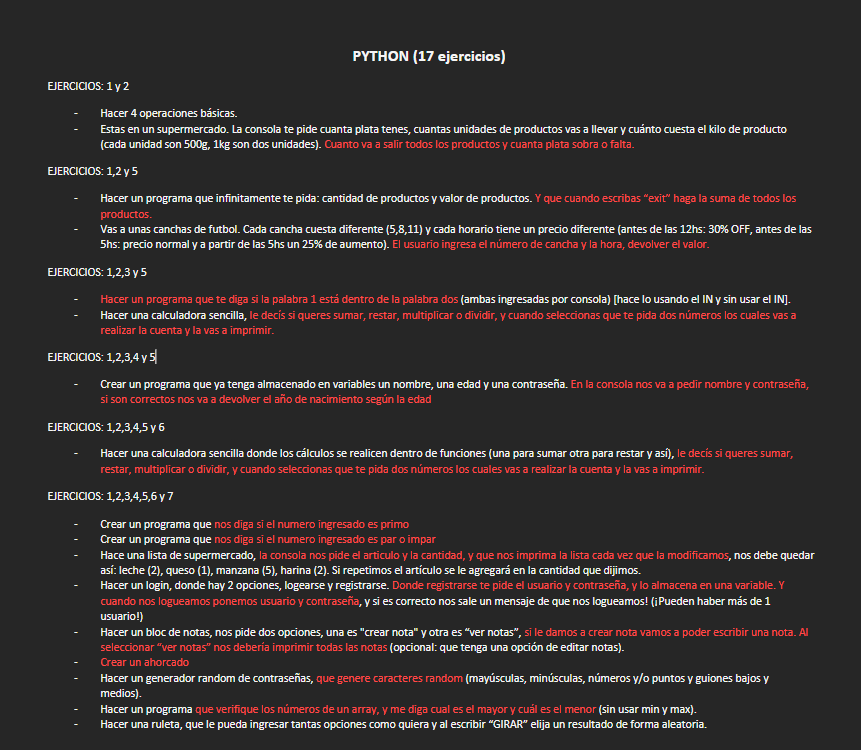
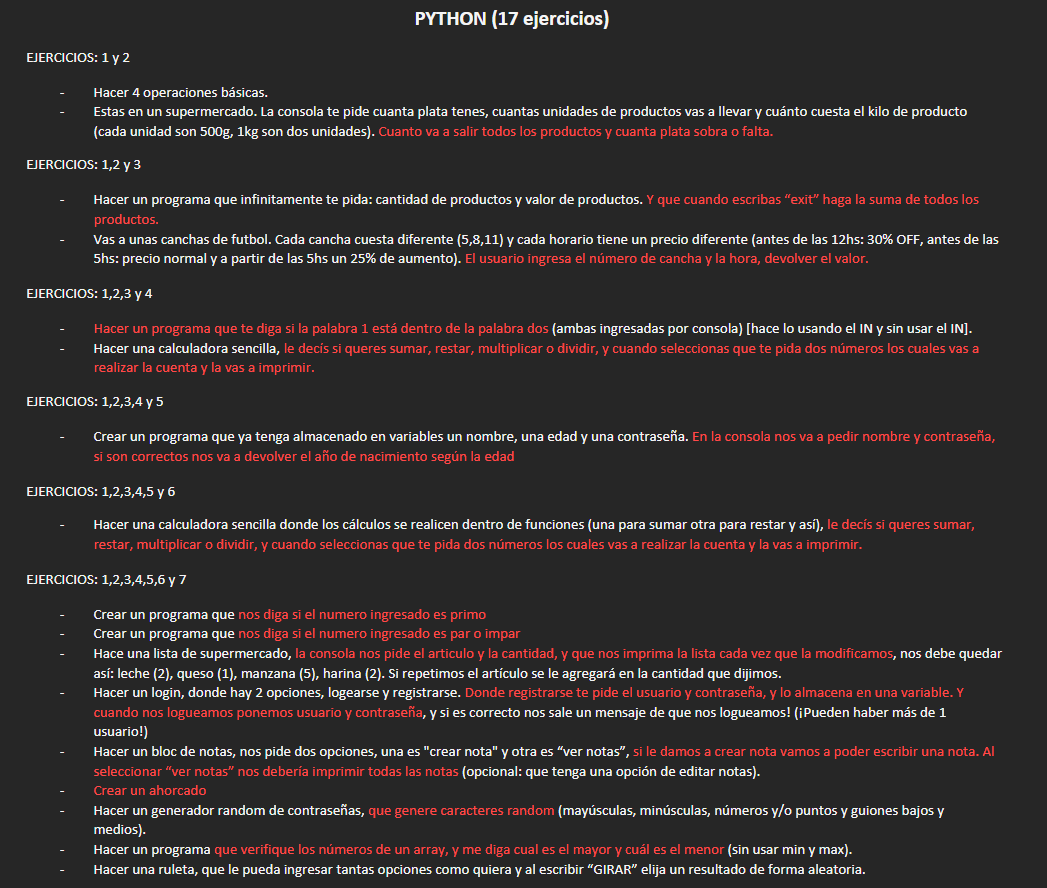
Ejercicios

Changed region(s): [[0.0302, 0.0613, 0.9663, 1.0], [0.3926, 0.0613, 0.6039, 0.092], [0.3926, 0.0, 0.6039, 0.0307]]

diff --git a/ejercicios/ejercicios.py b/ejercicios/ejercicios.py
@@ -10,7 +10,7 @@
 # Cuanto va a salir todos los productos y cuanta plata sobra o falta. 
 
 
-#? EJERCICIOS: 1,2 y 5 
+#? EJERCICIOS: 1,2 y 3
 # Hacer un programa que infinitamente te pida: cantidad de productos y valor de productos. 
 # Y que cuando escribas “exit” haga la suma de todos los productos. 
 
@@ -18,7 +18,7 @@
 # (antes de las 12hs: 30% OFF, antes de las 5hs: precio normal y a partir de las 5hs un 25% de aumento). 
 # El usuario ingresa el número de cancha y la hora, devolver el valor. 
 
-#? EJERCICIOS: 1,2,3 y 5 
+#? EJERCICIOS: 1,2,3 y 4
 # Hacer un programa que te diga si la palabra 1 está dentro de la palabra dos 
 # (ambas ingresadas por consola) [hace lo usando el IN y sin usar el IN]. 
 
